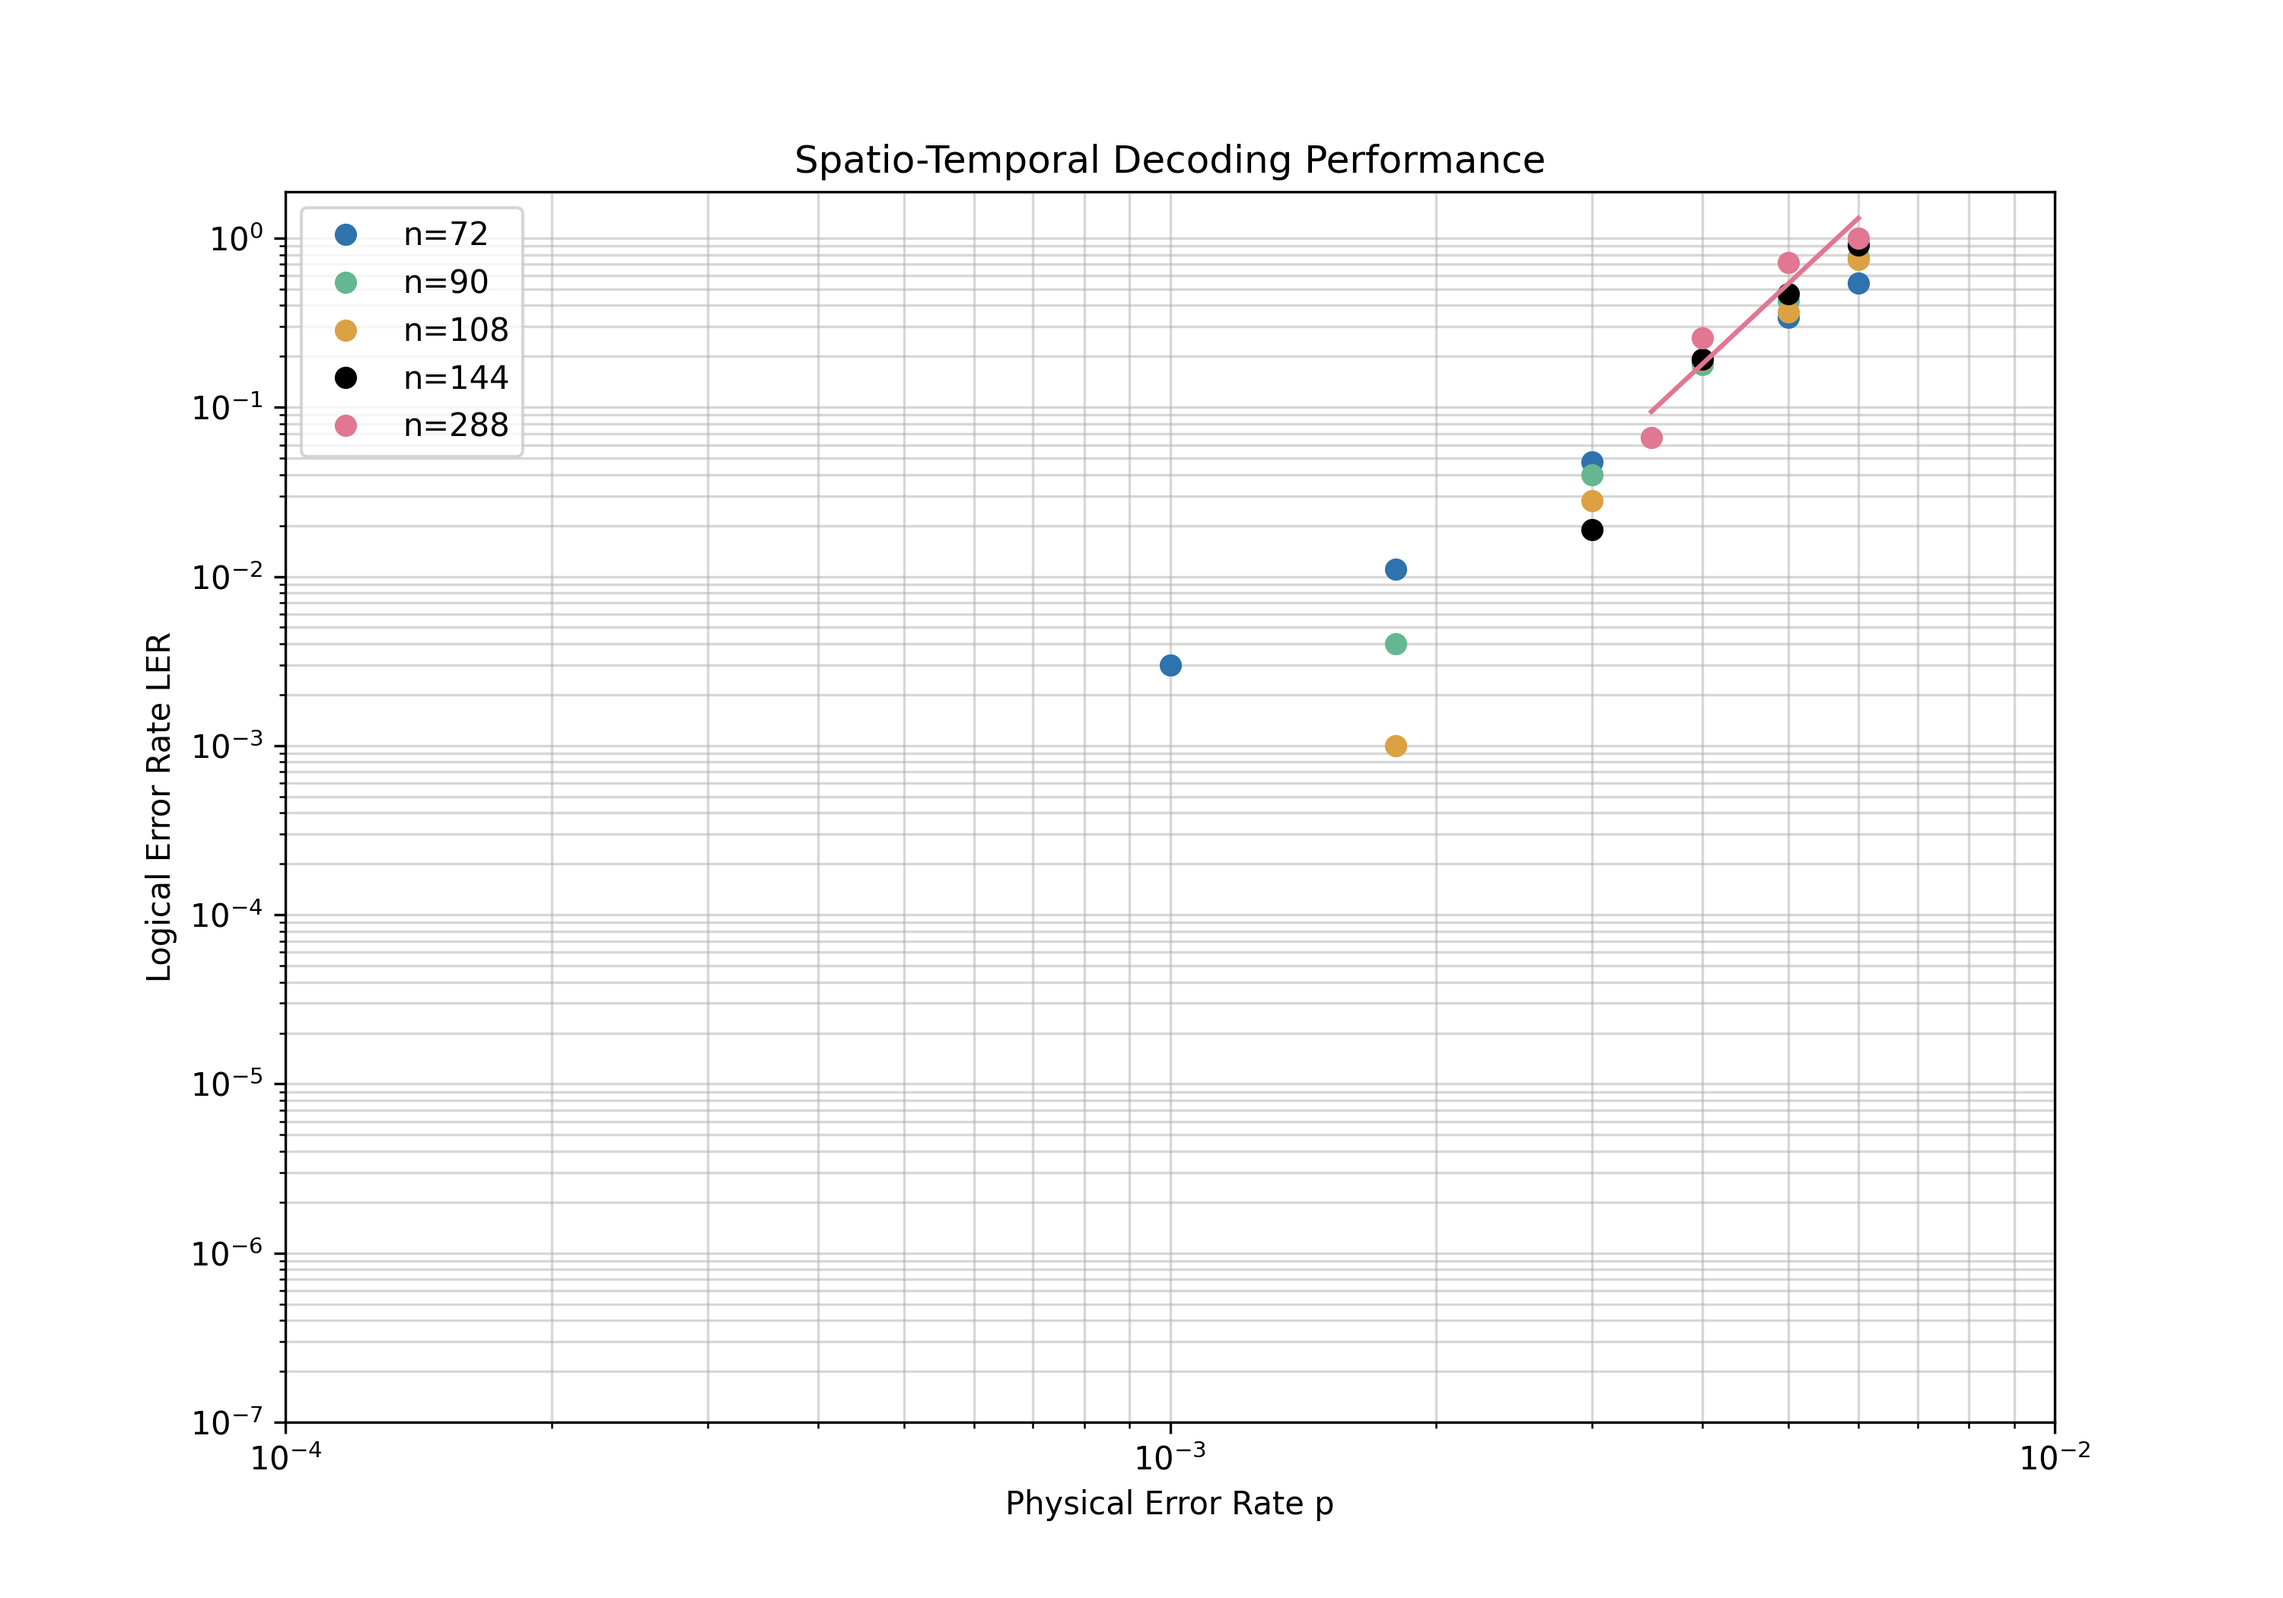
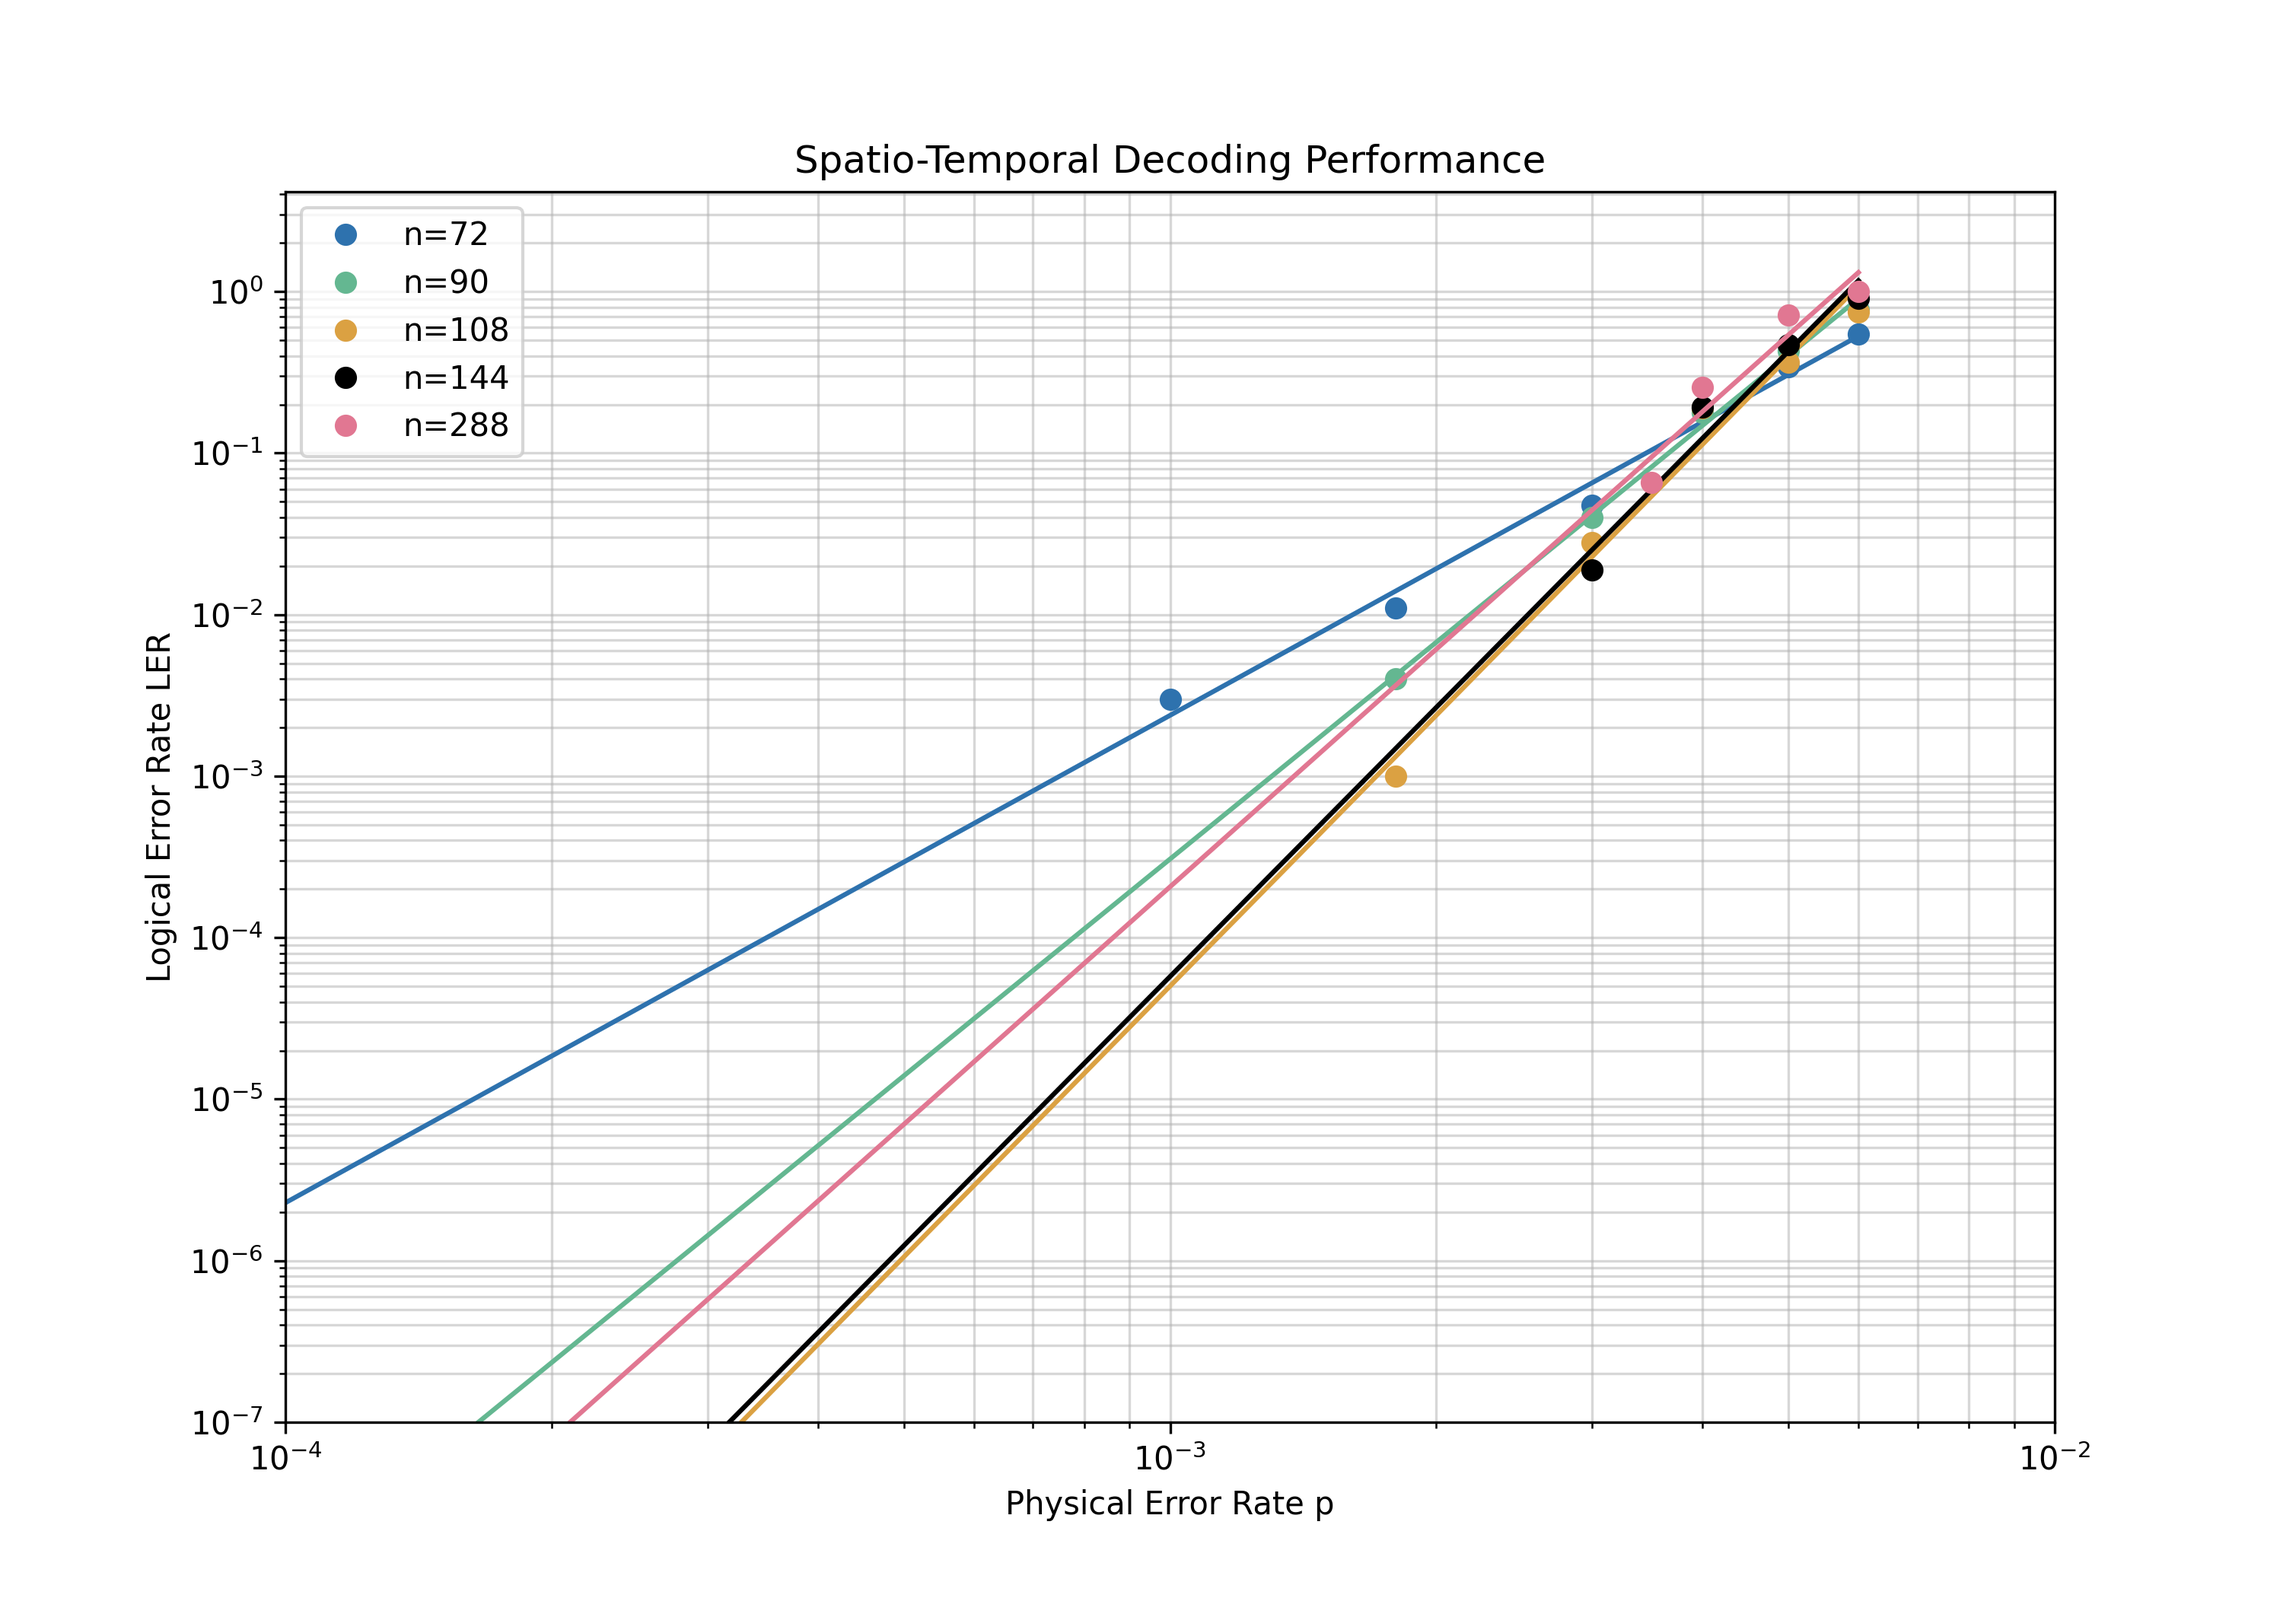
plotting should be better now

Changed region(s): [[0.093, 0.1238, 0.899, 0.8976], [0.093, 0.1238, 0.124, 0.1857], [0.093, 0.2476, 0.124, 0.2786]]

diff --git a/output/run_20260122_095028/test.py b/output/run_20260122_095028/test.py
@@ -31,3 +31,8 @@ def plot_simulation_results(results, filename="simulation_results.png"):
     plt.title("Spatio-Temporal Decoding Performance")
     plt.savefig(filename, dpi=300)
     print(f"\nResults saved to {filename}")
+
+
+npz = np.load("results.npz", allow_pickle=True)
+results = {k: npz[k].item() for k in npz.files}
+plot_simulation_results(results, filename="simulation_results.png")
